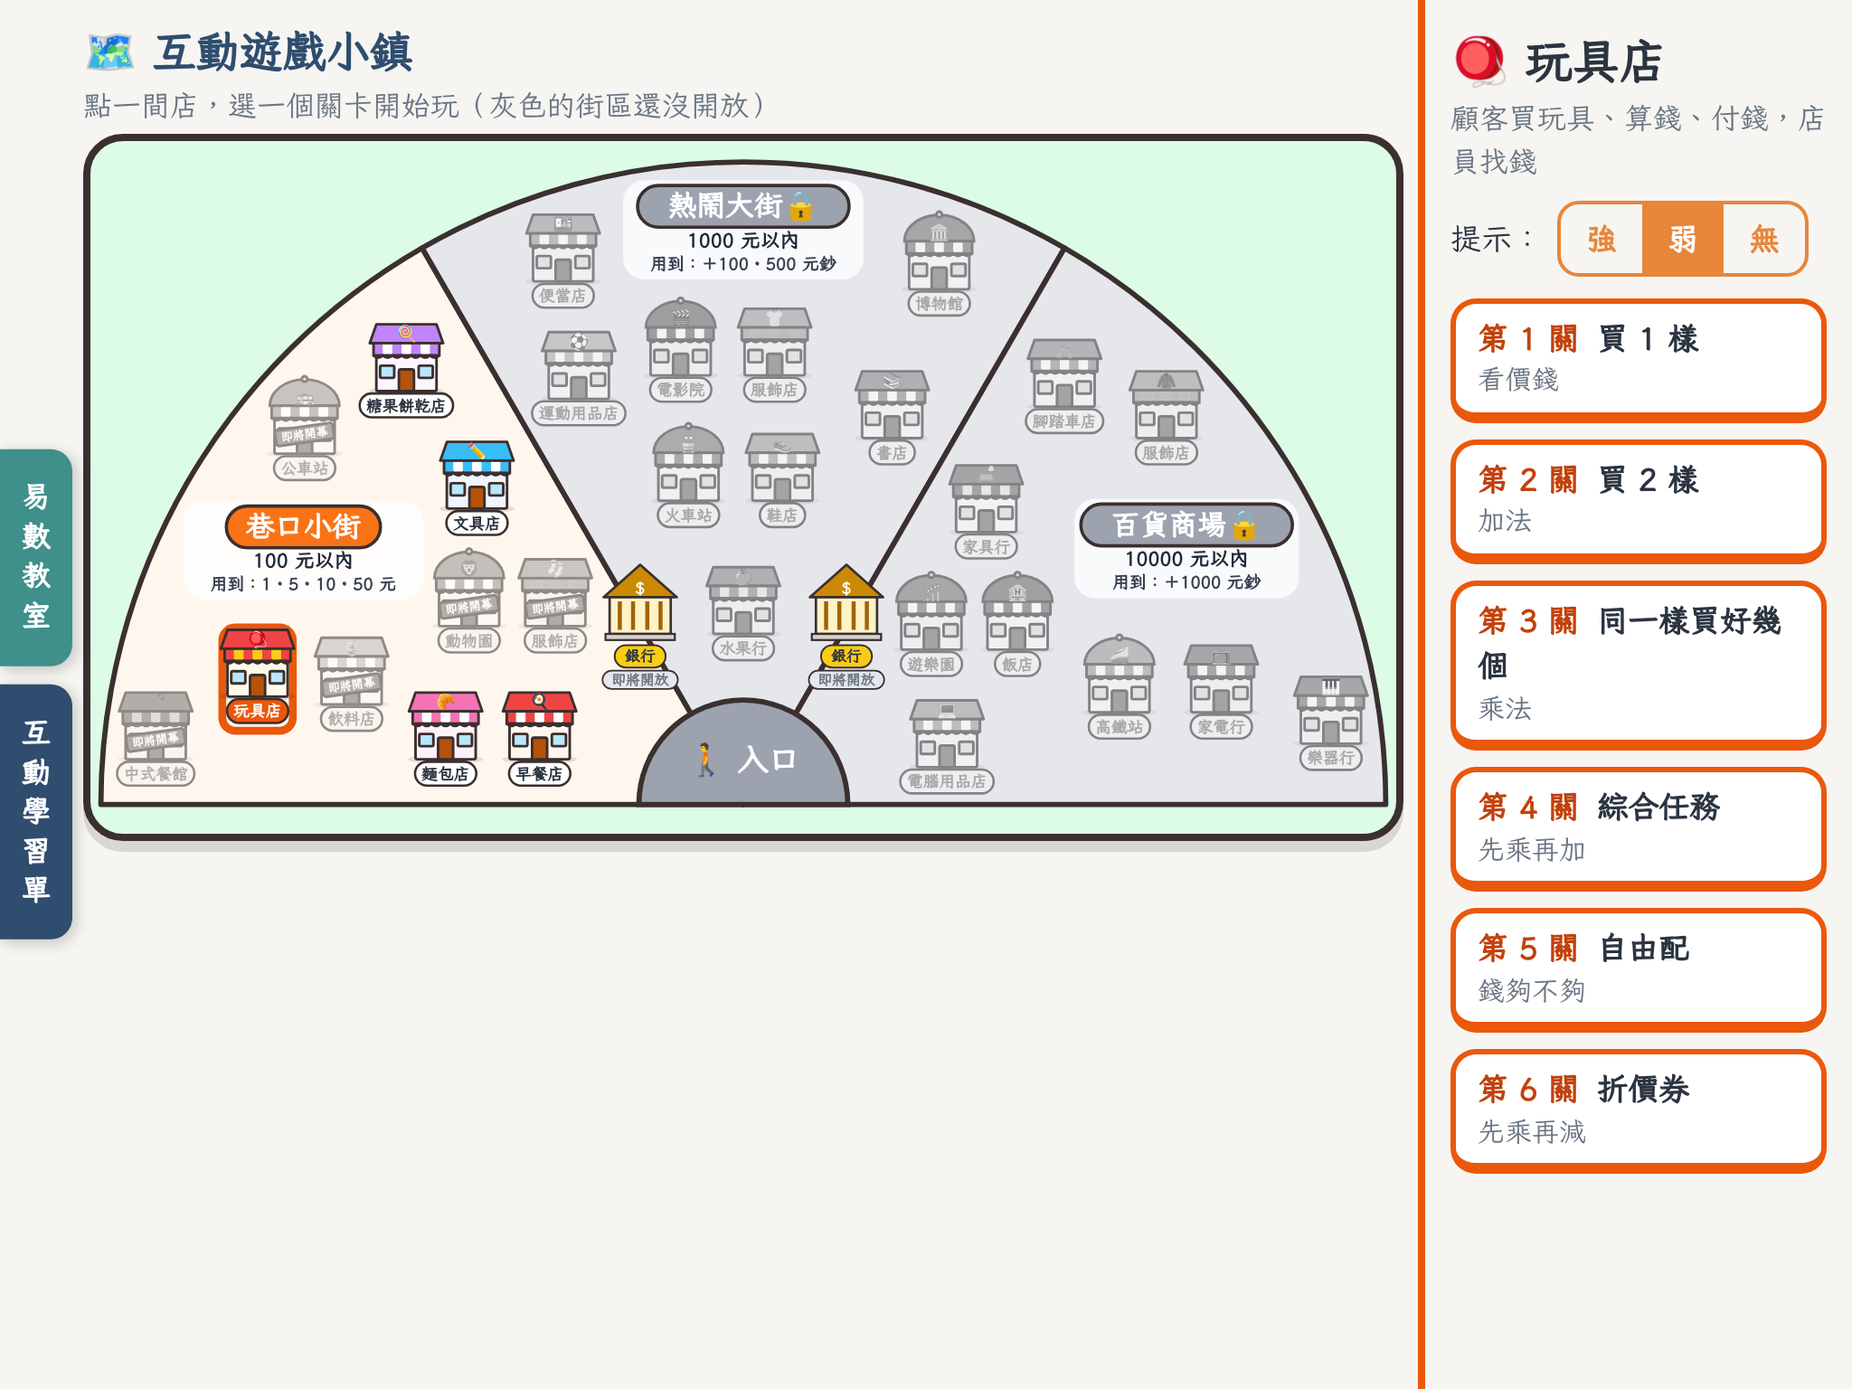
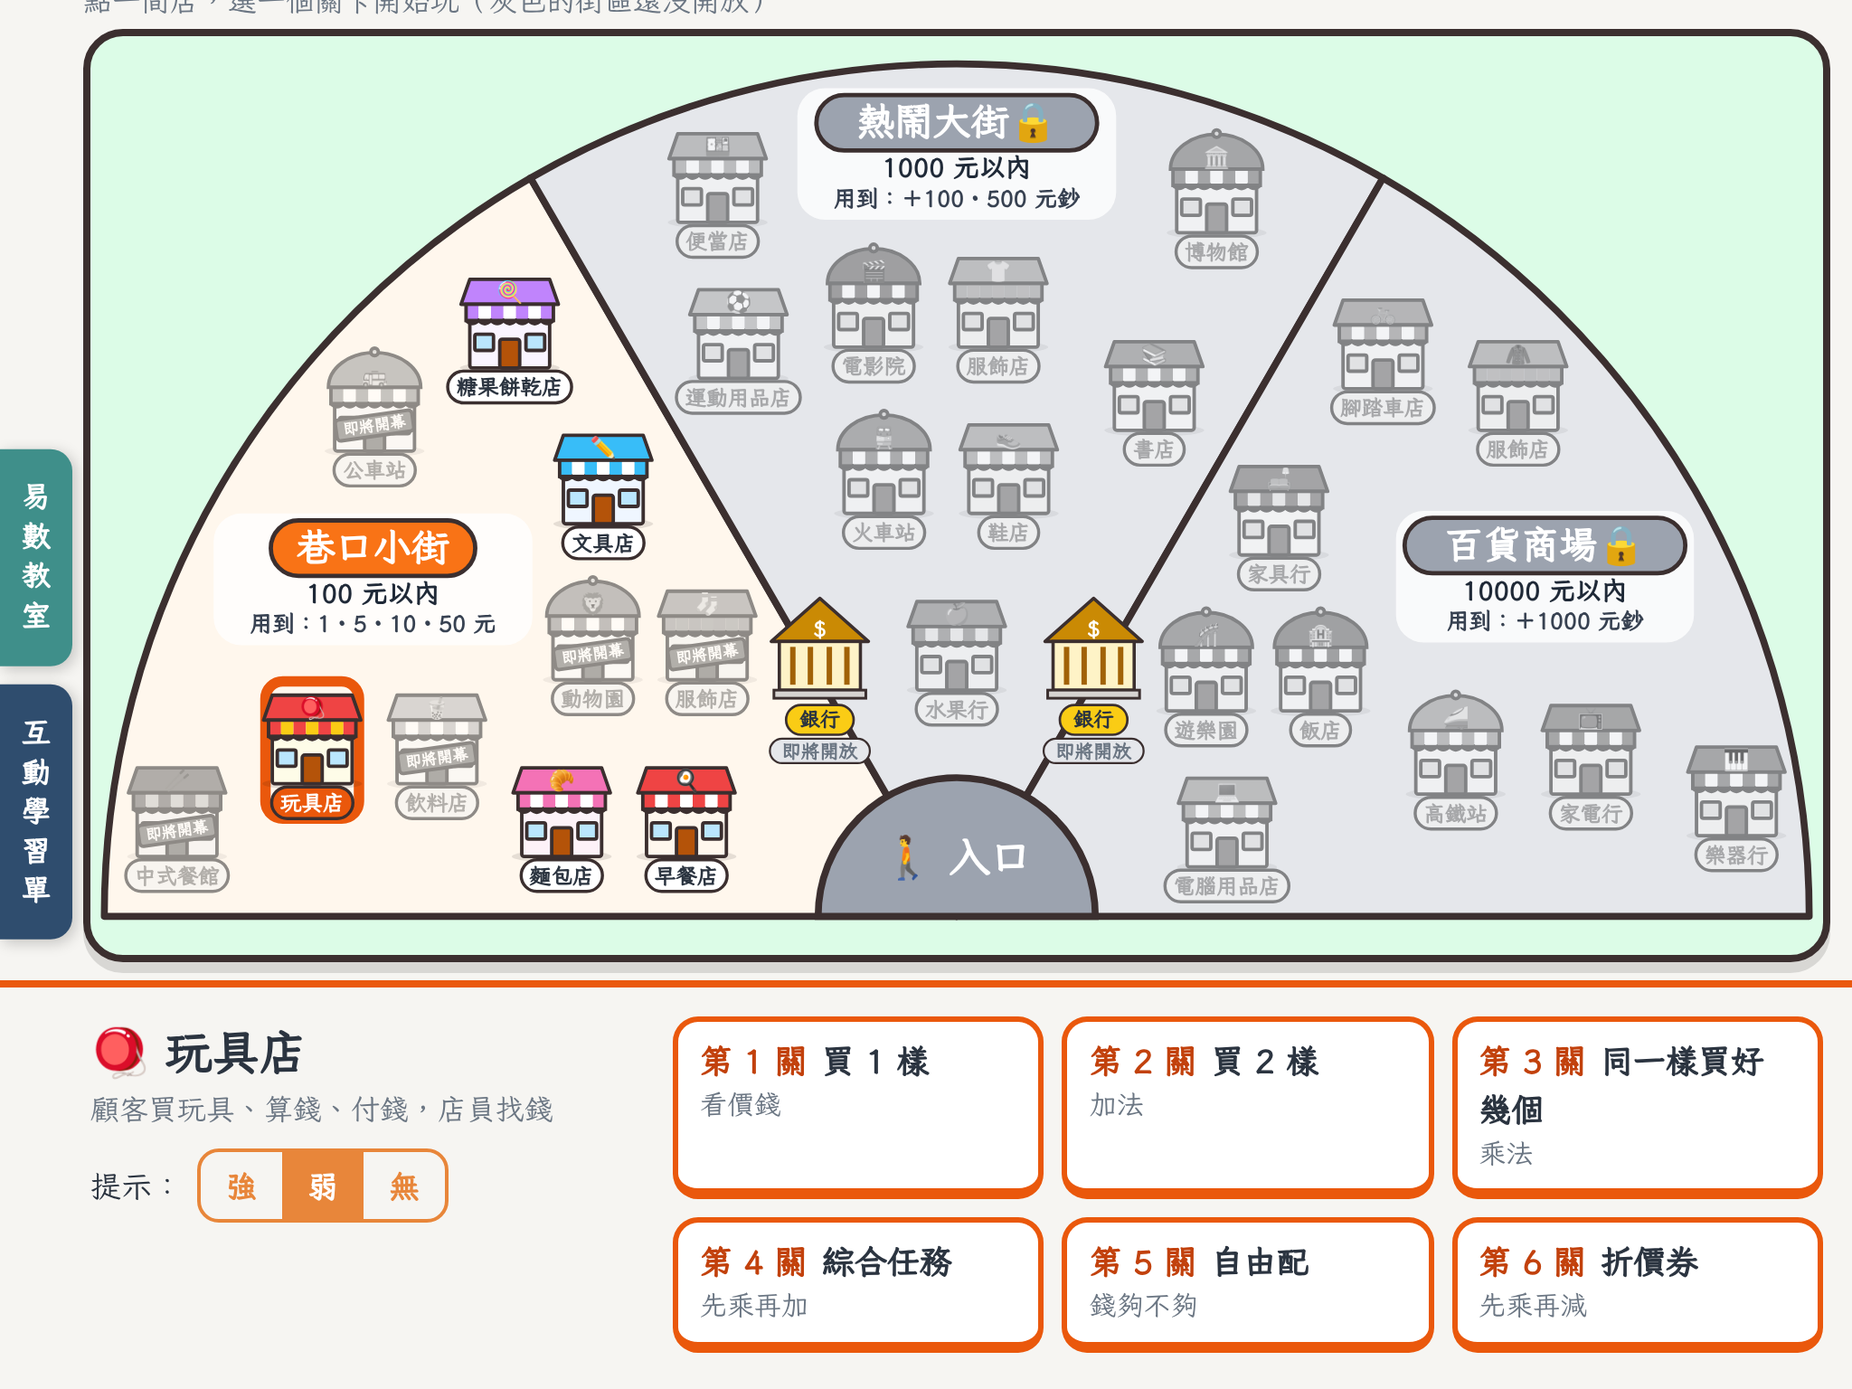
互動遊戲小鎮：平板／窄螢幕關卡欄移到地圖下方，地圖放大
Claude-Session: https://claude.ai/code/session_011NSASVxub988hrButXXVd9

diff --git a/games/index.html b/games/index.html
@@ -64,10 +64,14 @@ aside .ds{font-size:16px;color:var(--mute);margin-bottom:10px}
 .chips button.on{background:var(--game);color:#fff}
 .chips button:disabled{border-color:#cbd5e1;background:#f1f5f9;color:#94a3b8;cursor:not-allowed}
 @media (max-width:600px){.chips{display:flex}}
-/* 平板橫放：右側欄改窄，讓地圖大一點 */
-@media (max-width:1100px){.page{grid-template-columns:minmax(0,1fr) 240px}main{padding:10px 8px 10px 46px}h1{font-size:24px}.sub{margin-bottom:4px}aside{padding:14px}.stage{padding:6px 12px}.stage b,.stage span{font-size:17px}}
-/* 平板直放／手機：右側欄移到地圖下方 */
-@media (max-width:820px){.page{grid-template-columns:1fr;height:auto}main{padding:14px 12px 10px 50px}.map svg{width:100%;max-height:none;height:auto}aside{border-left:0;border-top:4px solid var(--game);padding:16px 16px 18px 50px}}
+/* 平板／窄螢幕（≤1100px）：關卡欄移到地圖下方，地圖用滿整個寬度；左＝店名＋說明＋提示強弱，右＝關卡 3 欄格狀 */
+@media (max-width:1100px){.page{grid-template-columns:1fr;height:auto}main{padding:10px 12px 10px 46px}h1{font-size:24px}.sub{margin-bottom:4px}
+  .map svg{width:100%;max-height:none;height:auto}
+  aside{border-left:0;border-top:4px solid var(--game);padding:16px 16px 20px 50px;display:grid;grid-template-columns:minmax(220px,300px) minmax(0,1fr);gap:8px 22px;align-items:start}
+  .stages{display:grid;grid-template-columns:repeat(3,minmax(0,1fr));gap:10px}
+  .stage{min-height:56px;margin-bottom:0;padding:8px 12px}.stage b,.stage span{font-size:18px}.stage span{margin-left:8px}}
+/* 手機：關卡欄上下堆疊、關卡一欄 */
+@media (max-width:600px){aside{display:block;padding:16px 16px 18px 50px}.stages{grid-template-columns:1fr}.stage{margin-bottom:9px}}
 </style>
 </head>
 <body>
@@ -118,10 +122,12 @@ function url(g,n){const lv=LV.find(l=>l.id===LEVEL);const p=(g.params||'').split
 const nameOf=g=>g.shop||g.title;
 const distOf=g=>DISTRICTS.some(z=>z.d===g.district)?g.district:100;
 const emoOf=g=>(LOOK[nameOf(g)]||LOOK0)[0];
+/* 關卡欄在地圖下方時（≤1100px），點店後捲到關卡欄讓學生看得到 */
+function toSide(){if(matchMedia('(max-width:1100px)').matches)$('#side').scrollIntoView({behavior:'smooth',block:'end'})}
 function side(){const g=GAMES.find(x=>x.id===SEL);if(!g){$('#side').innerHTML='';return}
-  $('#side').innerHTML=`<div class="nm">${emoOf(g)} ${esc(nameOf(g))}</div><div class="ds">${esc(g.desc||'')}</div>
-    <div class="lvlrow">提示：<span class="lvl">${LV.map(l=>`<button type="button" data-lv="${l.id}" class="${l.id===LEVEL?'on':''}" aria-pressed="${l.id===LEVEL}">${l.name}</button>`).join('')}</span></div>
-    ${(g.stages||[]).map(s=>`<a class="stage" href="${esc(url(g,s.n))}" target="_blank" rel="noopener"><b>第 ${s.n} 關</b><span>${esc(s.name)}</span><small>${esc(s.sub||'')}</small></a>`).join('')}`;
+  $('#side').innerHTML=`<div class="sidehead"><div class="nm">${emoOf(g)} ${esc(nameOf(g))}</div><div class="ds">${esc(g.desc||'')}</div>
+    <div class="lvlrow">提示：<span class="lvl">${LV.map(l=>`<button type="button" data-lv="${l.id}" class="${l.id===LEVEL?'on':''}" aria-pressed="${l.id===LEVEL}">${l.name}</button>`).join('')}</span></div></div>
+    <div class="stages">${(g.stages||[]).map(s=>`<a class="stage" href="${esc(url(g,s.n))}" target="_blank" rel="noopener"><b>第 ${s.n} 關</b><span>${esc(s.name)}</span><small>${esc(s.sub||'')}</small></a>`).join('')}</div>`;
   $('#side').querySelectorAll('[data-lv]').forEach(b=>b.onclick=()=>{LEVEL=+b.dataset.lv;try{localStorage.setItem('ys_game_lv',LEVEL)}catch(e){}side()})}
 
 /* ---------- 版面：每個扇區自動排店 ---------- */
@@ -223,13 +229,13 @@ ${L.zones[0].banks.map(bankSvg).join('')}
 ${shops}
 </svg>`;
   $('#map').querySelectorAll('.shop[data-id]').forEach(el=>{
-    const pick=()=>{SEL=el.dataset.id;map();side();$(`#map .shop[data-id="${CSS.escape(SEL)}"]`)?.focus()};
+    const pick=()=>{SEL=el.dataset.id;map();side();toSide();$(`#map .shop[data-id="${CSS.escape(SEL)}"]`)?.focus({preventScroll:true})};
     el.onclick=pick;el.onkeydown=e=>{if(e.key==='Enter'||e.key===' '){e.preventDefault();pick()}}});
   const chip=(n,emo,id,dis)=>`<button type="button" ${id?`data-id="${esc(id)}"`:''} ${dis?'disabled':''} class="${id&&id===SEL?'on':''}" aria-pressed="${id===SEL}">${emo} ${esc(n)}</button>`;
   $('#chips').innerHTML=DISTRICTS.map((D,zi)=>{const lock=LOCKED[D.d],its=L.items[zi];
     const btns=lock?its.map(it=>chip(it.name,(it.emo||(LOOK[it.name]||LOOK0)[0]),null,true)):its.filter(it=>it.id).map(it=>chip(it.name,(LOOK[it.name]||LOOK0)[0],it.id,false));
     return `<div><div class="gt">${esc(D.name)}・${esc(D.lim)}${lock?' 🔒':''}</div><div class="row">${btns.join('')||'<span class="empty" style="padding:0">即將開幕</span>'}</div></div>`}).join('');
-  $('#chips').querySelectorAll('button[data-id]').forEach(b=>b.onclick=()=>{SEL=b.dataset.id;map();side()})}
+  $('#chips').querySelectorAll('button[data-id]').forEach(b=>b.onclick=()=>{SEL=b.dataset.id;map();side();toSide()})}
 async function load(){
   try{CAT=await fetch('../dashboard/catalog.json?t='+Date.now(),{cache:'no-store'}).then(r=>r.json());
     GAMES=CAT.items.filter(i=>i.kind==='game');

diff --git a/docs/mock-district-map/z1_check.js b/docs/mock-district-map/z1_check.js
@@ -9,6 +9,7 @@ const ROOT=path.resolve(__dirname,'../..');
     const p=await b.newPage({viewport:{width:w,height:h},deviceScaleFactor:2});
     const errs=[];p.on('pageerror',e=>errs.push(e.message));
     await p.goto('http://localhost:8765/games/index.html');await p.waitForSelector('#mapsvg .it');await p.waitForTimeout(600);
+    if(tag==='1024')await p.screenshot({path:path.join(__dirname,'z1b_1024.png')});
     const r=await p.evaluate(()=>{
       const svg=document.querySelector('#mapsvg'),inv=svg.getScreenCTM().inverse(),G=window.__GEO,pt=svg.createSVGPoint();
       const toU=(x,y)=>{pt.x=x;pt.y=y;const q=pt.matrixTransform(inv);return[q.x,q.y]};
@@ -40,12 +41,19 @@ const ROOT=path.resolve(__dirname,'../..');
     // 點店 → 右側欄 + 關卡連結
     const first=await p.$('#mapsvg .shop[data-id]');await first.scrollIntoViewIfNeeded();
     if(tag!=='390'){await p.click('#mapsvg .shop[data-id="game-toy-1"]');}else{await p.click('#chips button[data-id="game-toy-1"]')}
-    await p.waitForTimeout(200);
+    await p.waitForTimeout(900);
+    if(tag==='1024'||tag==='1280'||tag==='390'){ // 平板／窄螢幕：關卡欄在地圖下方、按鈕夠大、點店後已捲到可見；寬螢幕：關卡欄仍在右側
+      const lay=await p.evaluate(()=>{const m=document.querySelector('#mapsvg').getBoundingClientRect(),a=document.querySelector('#side').getBoundingClientRect(),st=[...document.querySelectorAll('#side .stage')].map(e=>e.getBoundingClientRect());
+        return{below:a.top>=m.bottom-1,right:a.left>=m.right-1,minH:Math.min(...st.map(r=>r.height)),cols:new Set(st.map(r=>Math.round(r.left))).size,vis:a.bottom<=innerHeight+2&&a.bottom>0}});
+      const want=w<=1100?(lay.below&&lay.minH>=56&&lay.vis&&(w>600?lay.cols===3:true)):(lay.right&&!lay.below);
+      console.log(`   關卡欄位置：${w<=1100?'地圖下方':'右側'}=${want}，按鈕最小高 ${lay.minH.toFixed(0)}px，欄數 ${lay.cols}，捲到可見=${lay.vis}`);if(!want)bad++}
     const side=await p.evaluate(()=>({nm:document.querySelector('#side .nm').textContent,links:[...document.querySelectorAll('#side .stage')].map(a=>a.getAttribute('href'))}));
     const ok=/玩具店/.test(side.nm)&&side.links.length===6&&side.links.every((h,i)=>h.includes('/game/toy-shop?')&&h.includes('stage='+(i+1))&&h.includes('lv=2')&&h.includes('mode=faded'));
     console.log(`   點玩具店 → ${side.nm}，${side.links.length} 關，連結${ok?'正確':'有誤'}：${side.links[0]}`);if(!ok)bad++;
     // 點鎖住區的店不應有反應
     const lockedClickable=await p.evaluate(()=>document.querySelectorAll('#mapsvg .shop.soon[data-id]').length);if(lockedClickable)bad++;
     await p.screenshot({path:path.join(__dirname,`z1_${tag}.png`),fullPage:tag==='390'});
+    if(tag==='1024')await p.screenshot({path:path.join(__dirname,'z1b_1024_sel.png')});
+    if(tag==='1280')await p.screenshot({path:path.join(__dirname,'z1b_1280.png')});
     await p.close()}
   await b.close();srv.kill();console.log(bad?`FAIL ${bad}`:'ALL OK');process.exit(bad?1:0)})();

diff --git a/CLAUDE.md b/CLAUDE.md
@@ -10,7 +10,7 @@
 | **教材設計規範**：使用對象與設計原則、版面規格、量詞、答案合理範圍、主題與位數對應、時鐘、錢幣配色（互動頁）、**互動頁的操作回饋**（游標、來龍去脈、逐一顯示；第 9 節） | [`docs/教材設計規範.md`](docs/教材設計規範.md) |
 | **互動頁規格資料**（`dashboard/` 只留資料與腳本，網頁介面已於 2026-10-14 捨棄）：`hint-profile.json`＝強／弱／無提示設定檔（權威）、`spec.json`＝提示規格表資料、`catalog.json`＝互動頁清單（總覽頁用）；`check_catalog.py <後端路徑>` 檢查漏列端點。**新增／修改互動頁時，同一個 commit 更新 catalog／spec** | [`dashboard/`](dashboard/)；規格說明與盤點結論：[`docs/互動版提示規格.md`](docs/互動版提示規格.md) |
 | **互動學習單總覽**（名稱「互動學習單」，GitHub Pages 的 `/interactive/`：左側導覽樹＋縮圖三欄、頂端小次類篩選、搜尋；連結一律帶 `lv=2&mode=faded`＝從這裡進去是弱提示；**跨頁切換用左側邊緣直式標籤**：總覽→易數教室、首頁→互動學習單；**遊戲（catalog 的 `kind:'game'`）不進導覽樹；入口是橘色直式標籤「互動遊戲」→ 互動遊戲導覽頁 `games/`**（使用者 2026-11-10，原本每個遊戲一個標籤）；⚠ 總覽的 `load()` 每 2 分鐘重跑一次（抓最新 catalog），**在 `load()` 裡往頁面加東西要先清掉舊的**，否則會一直疊加（2026-11-09 遊戲標籤疊成好幾個）；階層配色與細節見後端 repo `docs/guide/interactive-web.md`「互動學習單入口、版面與切換」）。資料與儀表板共用 `dashboard/catalog.json`；**新增／改版互動頁後，除了更新 catalog，還要重產縮圖**：`python dashboard/make_thumbs.py <後端路徑> [id…]`（重產後 `catalog.json` 的 `thumbsV` 會自動更新，縮圖網址帶 `?v=` 才不會被快取沿用舊圖；`params` 含 `calc=1` 的直式計算題縮圖是靜態畫的計算格特寫，標籤是 `index.html` 的 `rgTag`） | [`interactive/`](interactive/)、[`dashboard/make_thumbs.py`](dashboard/make_thumbs.py) |
-| **互動遊戲導覽頁**（GitHub Pages 的 `/games/`；**2026-11-18 起是「半圓三扇」地圖（價位街區 Z1）**：入口在下方中央，往上展開半圓、切三片 60° 扇形，左＝巷口小街（100 元以內，暖橘）、中＝熱鬧大街（1000 元以內，藍）、右＝百貨商場（10000 元以內，紫），每區有區名牌＋「N 元以內」＋「用到的錢」，兩條交界靠入口處各一間銀行（還不能點，寫「即將開放」）；程式畫的 SVG，店畫法是 `shopSvg`（屋頂、條紋雨棚、emoji 招牌、店名牌），買票的場所（公車站、電影院…）用圓頂屋頂區分。右側欄選關卡＋強／弱／無提示，預設弱、記在 `localStorage.ys_game_lv`；遊戲另開分頁、連結參數不變。**店的位置不再手填 `SLOTS`，由 `layoutZone()` 依扇形自動排開**（貪婪取點＋微調，店牌不重疊、不出扇形，放不下會把全部店一起縮小 `LAYOUT.s`）。**新增店**：catalog 的 `kind:'game'` 加一筆（`district`＝100｜1000｜10000，沒寫算 100）、外觀補進 `LOOK`（emoji、雨棚色）、`make_thumbs.py` 重產縮圖；**規劃中的店／場所**寫進 `PLACES[街區]`（灰色「即將開幕」，上線後同街區同名 shop 自動變彩色）；店太多時版面自動縮小，但店名字級會跟著變小（現況約 10～11px，平板 9px）。**解鎖街區**：改頁面裡的 `LOCKED`（`{100:false,1000:true,10000:true}`，true＝灰色＋🔒、整區不能點；真正的解鎖機制＝銀行換錢＋老師設定是批次 Z3）。手機另有店名按鈕列，依街區分組、鎖住的區灰色不能點。入口：首頁與互動學習單總覽左側的橘色「互動遊戲」標籤。資料讀 `dashboard/catalog.json` 的 `kind:'game'` 項目（`shop`、`district`、`tag`、`desc`、`stages:[{n,name,sub}]`；遊戲項目是前端手維護，`sync_variants.py` 不會動它）；街區規劃見 [`docs/價位街區_規劃.md`](docs/價位街區_規劃.md)） | [`games/index.html`](games/index.html)；驗收腳本（量 bounding box 找重疊／出界、點店檢查連結、三種螢幕截圖）`node docs/mock-district-map/z1_check.js`；模擬圖 `docs/mock-district-map/`，舊小鎮地圖模擬圖 `docs/mock-game-map/`、舊商店街 `docs/mock-game-hub/` |
+| **互動遊戲導覽頁**（GitHub Pages 的 `/games/`；**2026-11-18 起是「半圓三扇」地圖（價位街區 Z1）**：入口在下方中央，往上展開半圓、切三片 60° 扇形，左＝巷口小街（100 元以內，暖橘）、中＝熱鬧大街（1000 元以內，藍）、右＝百貨商場（10000 元以內，紫），每區有區名牌＋「N 元以內」＋「用到的錢」，兩條交界靠入口處各一間銀行（還不能點，寫「即將開放」）；程式畫的 SVG，店畫法是 `shopSvg`（屋頂、條紋雨棚、emoji 招牌、店名牌），買票的場所（公車站、電影院…）用圓頂屋頂區分。右側欄選關卡＋強／弱／無提示，預設弱、記在 `localStorage.ys_game_lv`；遊戲另開分頁、連結參數不變。**店的位置不再手填 `SLOTS`，由 `layoutZone()` 依扇形自動排開**（貪婪取點＋微調，店牌不重疊、不出扇形，放不下會把全部店一起縮小 `LAYOUT.s`）。**新增店**：catalog 的 `kind:'game'` 加一筆（`district`＝100｜1000｜10000，沒寫算 100）、外觀補進 `LOOK`（emoji、雨棚色）、`make_thumbs.py` 重產縮圖；**規劃中的店／場所**寫進 `PLACES[街區]`（灰色「即將開幕」，上線後同街區同名 shop 自動變彩色）；店太多時版面自動縮小，但店名字級會跟著變小（現況約 10～11px，平板 9px）。**解鎖街區**：改頁面裡的 `LOCKED`（`{100:false,1000:true,10000:true}`，true＝灰色＋🔒、整區不能點；真正的解鎖機制＝銀行換錢＋老師設定是批次 Z3）。平板／窄螢幕（≤1100px）關卡欄改放地圖下方（關卡 3 欄格狀、點店後自動捲到關卡欄），地圖因此用滿寬度（1024 寬時 730→966px）；手機另有店名按鈕列，依街區分組、鎖住的區灰色不能點。入口：首頁與互動學習單總覽左側的橘色「互動遊戲」標籤。資料讀 `dashboard/catalog.json` 的 `kind:'game'` 項目（`shop`、`district`、`tag`、`desc`、`stages:[{n,name,sub}]`；遊戲項目是前端手維護，`sync_variants.py` 不會動它）；街區規劃見 [`docs/價位街區_規劃.md`](docs/價位街區_規劃.md)） | [`games/index.html`](games/index.html)；驗收腳本（量 bounding box 找重疊／出界、點店檢查連結、三種螢幕截圖）`node docs/mock-district-map/z1_check.js`；模擬圖 `docs/mock-district-map/`，舊小鎮地圖模擬圖 `docs/mock-game-map/`、舊商店街 `docs/mock-game-hub/` |
 | 認識錢幣「半自由／完全自由排列」與錢幣外觀改版的**後端交接說明**（要做什麼、演算法、驗收清單）| [`docs/後端交接_錢幣自由排列與外觀.md`](docs/後端交接_錢幣自由排列與外觀.md)；視覺依據 `docs/mock-coin-free/` |
 | 認識錢幣自由排列的**後端實作順序清單**（決策 → 外觀 → 共用模組 → 試水 → 擴充 → 收尾，含每步驗收）| [`docs/後端實作順序清單.md`](docs/後端實作順序清單.md)（規則細節在上一列的交接說明）；可直接貼給後端 session 的簡短提示：[`docs/後端提示_錢幣自由排列.md`](docs/後端提示_錢幣自由排列.md) |
 | **錢幣配色（互動頁）**：1 元咖啡銅、5／10 元銀灰、50 元黃銅（2026-11-09 定案方案 A；Word／PDF 不變） | 規範：[`docs/教材設計規範.md`](docs/教材設計規範.md) 第 8 節；mockup `docs/mock-coin-color/`；後端交接（已完成）[`docs/後端提示_錢幣顏色.md`](docs/後端提示_錢幣顏色.md) |

diff --git a/docs/價位街區_規劃.md b/docs/價位街區_規劃.md
@@ -152,3 +152,6 @@
 - 只做一次貪婪取點：能排下的縮放只有 0.34；加上微調後 0.36，GAP 3 單位。再大要減少店數或換大版面（例如分頁），不是演算法問題。
 - 店太小的後續處理（待使用者決定）：1280 寬約 11px、1024 寬約 9px。想放大可以：(1) 平板右側欄移到地圖下方（≤1100px），(2) 最擠的巷口小街把規劃中的店拆到其他街區，(3) 之後換 Gemini 插畫時重新設計尺寸。
 - 地圖靠上對齊（原本置中，下方會留一大塊空白）。
+
+### Z1b：平板關卡欄移到地圖下方（使用者 2026-11-18）
+寬度 ≤1100px 時，右側關卡欄改放地圖下方、地圖用滿寬度：左＝店名＋說明＋提示強弱，右＝關卡 3 欄格狀（按鈕高約 75px，≥56px）；手機（≤600px）關卡一欄、上下堆疊。點店後 `toSide()` smooth 捲到關卡欄（地圖的 `focus` 要用 `preventScroll`，否則會被拉回去）。量測（1024×768）：地圖寬 730→966px，店名最小字 9.0→11.9px；1280 不變（890px、10.9px）；390 不變。`z1_check.js` 加了關卡欄位置、按鈕高度、欄數、捲到可見的斷言；截圖 `z1b_1024.png`、`z1b_1024_sel.png`、`z1b_1280.png`。
